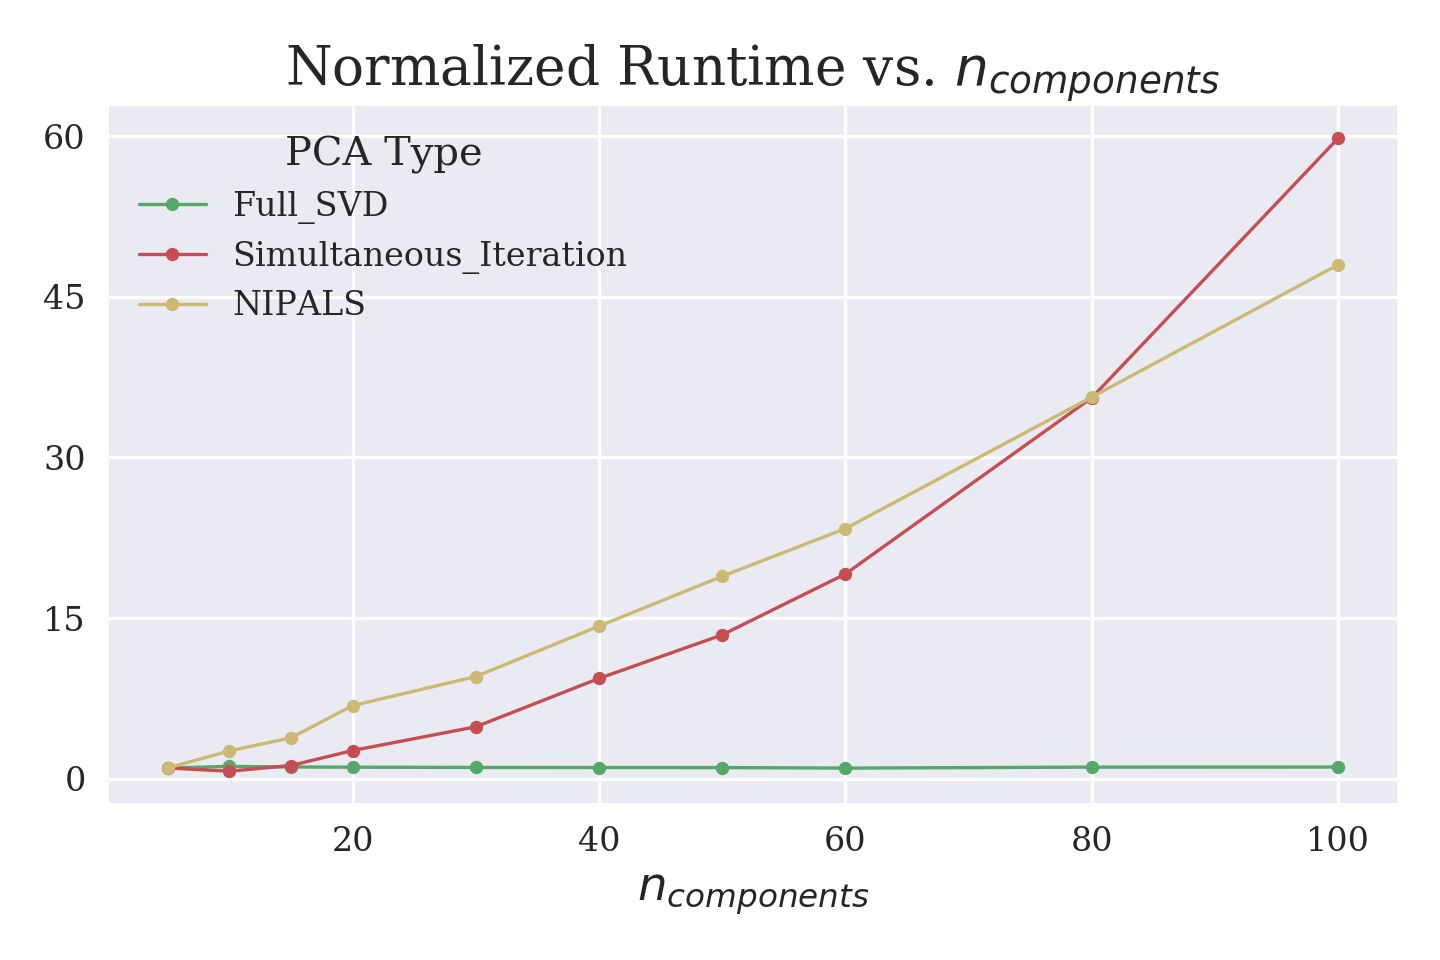
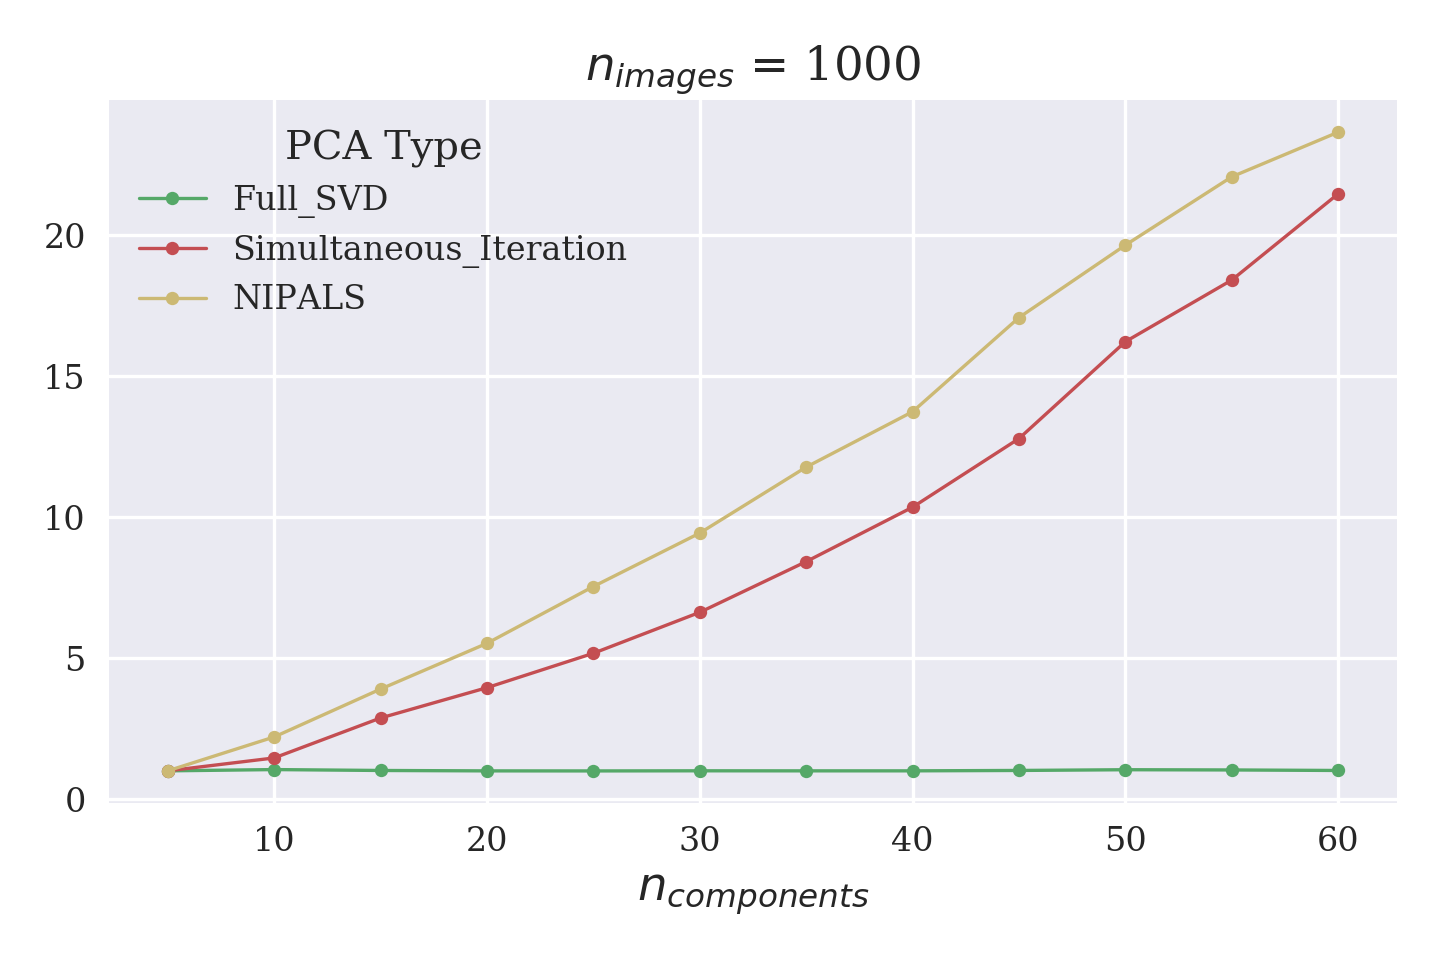
Add newest graphs

diff --git a/Main/Benchmarking/script.py b/Main/Benchmarking/script.py
@@ -5,9 +5,9 @@ import seaborn as sns
 import os
 import matplotlib.ticker as ticker
 
-COMPONENT_VALUES = [5, 10, 15, 20, 30, 40, 50, 60, 80, 100]
-IMAGE_NUMBERS = [100, 200, 400, 600, 800, 1000, 1500, 2000, 2500, 3000, 4000, 5000]
-PIXEL_COUNTS = [20, 40, 60, 80, 100, 150, 200, 250, 300, 400, 500, 600, 800, 1000, 1500, 2000]
+COMPONENT_VALUES = [5, 10, 15, 20, 25, 30, 35, 40, 45, 50, 55, 60]
+IMAGE_NUMBERS = [100, 200, 300, 400, 500, 600, 700, 800, 1000, 1100, 1200]
+PIXEL_COUNTS = [20, 40, 60, 80, 100, 120, 140, 160, 180, 200, 220, 240, 260, 280, 300, 320]
 
 ALGORITHMS = ['Full_SVD', 'Simultaneous_Iteration', 'NIPALS']
 
@@ -19,7 +19,7 @@ N_PC_TRIALS = len(PIXEL_COUNTS)
 NDIR = "Normalized Graphs"
 DIR = "Graphs"
 
-def benchmark_pixels(n_images=5000, n_components=5, EACH=8):
+def benchmark_pixels(dataset, n_images=5000, n_components=5, EACH=25, savename=''):
 
     dtype = "float32"
 
@@ -34,16 +34,19 @@ def benchmark_pixels(n_images=5000, n_components=5, EACH=8):
     benchmark_SI(minimal.copy(), 1, False)
 
     completed = 0
+    n_total = dataset.shape[0]
+    max_pixels = dataset.shape[1]
 
     for k in range(EACH):
-
-        images = np.random.normal(0, 1, (n_images, max(PIXEL_COUNTS)))
-        images = np.array(images, dtype)
 
         for j in range(N_PC_TRIALS):
 
             n_pixels = PIXEL_COUNTS[j]
-            subset = images[:, :n_pixels]
+            perm = np.random.permutation(n_total)
+
+            perm_pixels = np.random.permutation(max_pixels)[:n_pixels]
+
+            subset = dataset[perm][:n_images, perm_pixels]
 
             _, _, _elapsedN = benchmark_NIPALS(subset.copy(), n_components, False)
             _, _, _elapsedSVD = benchmark_SVD(subset.copy(), n_components, False)
@@ -60,9 +63,9 @@ def benchmark_pixels(n_images=5000, n_components=5, EACH=8):
             print(_elapsedN)
 
             print("Completed: ", completed, " of ", n_trials, " trials!")
-        np.save('full_pixels.npy', ret)
+        np.save('full_pixels' + savename + '.npy', ret)
 
-def benchmark_all(dataset, EACH=8):
+def benchmark_all(dataset, EACH=25, savename=''):
 
     ret = np.zeros((N_CV_TRIALS, N_IN_TRIALS, N_ALGORITHMS, EACH), dtype="float64")
     n_trials = ret.size
@@ -102,12 +105,12 @@ def benchmark_all(dataset, EACH=8):
                 ret[i, j, 2, l] = _elapsedN
 
             print("Completed: ", completed, " of ", n_trials, " trials!")
-            np.save('full_run_new.npy', ret)
+            np.save('full' + savename + '.npy', ret)
 
-def graph_vs_components(normalized=False):
+def graph_vs_components(normalized=False, savename=''):
 
-    runtimes = np.load('full_run_new.npy')
-    runtimes = np.mean(runtimes, axis=3)
+    runtimes = np.load('full' + savename + '.npy')
+    runtimes = np.median(runtimes, axis=3)
 
     for j in range(N_IN_TRIALS):
 
@@ -145,6 +148,7 @@ def graph_vs_components(normalized=False):
             ax.set_ylabel(r"$Runtime (seconds)$" , fontsize=14)
             ax.set_title(r"$Runtime$ vs. $n_{components}$", fontsize=16)
      
+        ax.set_title(r"$n_{images}$ = " + str(n_images), fontsize=14)
 
         ax.set_xlabel(r"$n_{components}$", fontsize=14)
 
@@ -160,14 +164,14 @@ def graph_vs_components(normalized=False):
         
         else:
 
-            plt.savefig(os.path.join(DIR, "N_Components_Image" + str(n_images) + ".png"))
+            plt.savefig(os.path.join(DIR, "U_Components_Image" + str(n_images) + ".png"))
                   
         plt.close('all')
 
-def graph_vs_images(normalized=False):
+def graph_vs_images(normalized=False, savename=''):
 
-    runtimes = np.load('full_run_new.npy')
-    runtimes = np.mean(runtimes, axis=3)
+    runtimes = np.load('full' + savename + '.npy')
+    runtimes = np.median(runtimes, axis=3)
 
     for i in range(N_CV_TRIALS):
 
@@ -205,6 +209,7 @@ def graph_vs_images(normalized=False):
             ax.set_ylabel(r"$Runtime (seconds)$" , fontsize=14)
             ax.set_title(r"$Runtime$ vs. $n_{images}$", fontsize=16)
      
+        ax.set_title(r"$n_{components}$ = " + str(n_components), fontsize=14)
 
         ax.set_xlabel(r"$n_{images}$", fontsize=14)
 
@@ -220,16 +225,14 @@ def graph_vs_images(normalized=False):
         
         else:
 
-            plt.savefig(os.path.join(DIR, "N_Image_Components" + str(n_components) + ".png"))
+            plt.savefig(os.path.join(DIR, "U_Image_Components" + str(n_components) + ".png"))
                   
         plt.close('all')
 
-def graph_vs_pixels(normalized=False):
+def graph_vs_pixels(normalized=False, savename=""):
 
-    runtimes = np.load('full_pixels.npy')
+    runtimes = np.load('full_pixels' + savename + '.npy')
     runtimes = np.mean(runtimes, axis=2)
-
-    print(runtimes)
 
     sns.set(context='notebook', style='darkgrid', font="serif")
     colours = sns.color_palette(n_colors=6)
@@ -279,70 +282,28 @@ def graph_vs_pixels(normalized=False):
     
     else:
 
-        plt.savefig(os.path.join(DIR, "N_Pixels.png"))
+        plt.savefig(os.path.join(DIR, "U_Pixels.png"))
 
-              
+    plt.show()              
     plt.close('all')
 
-def graph_vs_pixels_large(normalized=False):
 
-    runtimes = np.load('full_pixels.npy')
-    runtimes = np.mean(runtimes, axis=2)
+def extract_image(imgset, shape, index):
 
-    print(runtimes)
+    image_out = np.reshape(imgset[index, :], (shape, shape))
+    return image_out
 
-    sns.set(context='notebook', style='darkgrid', font="serif")
-    colours = sns.color_palette(n_colors=6)
-    colour_indices = [1, 4]
-    plt.figure(figsize=(6, 4), dpi=240)
 
-    for k in range(N_ALGORITHMS - 1):
+def plot_images(imageset, title, num_images=4):
+    shape = int(np.ceil(np.sqrt(np.shape(imageset)[1])))
+    numrows = int(np.ceil(np.sqrt(num_images)))
+    for i in range(num_images):
+        plt.subplot(numrows, numrows, i+1)
+        plt.imshow(extract_image(imageset,shape,i),cmap='gray')
+        plt.axis('off')
+        plt.title(title)
 
-        values = runtimes[k, :].flatten()
-
-        if normalized:
-
-            values /= values[0]
-
-        plt.plot(PIXEL_COUNTS, 
-                 values, 
-                 color=colours[colour_indices[k]],
-                 linestyle='-',
-                 linewidth=1,
-                 marker='o',
-                 markersize=4)
-
-    ax = plt.gca()
-
-    if normalized:
-
-        ax.set_title(r"Normalized Runtime vs. $n_{pixels}$", fontsize=16)
- 
-    else:
-
-        ax.set_ylabel(r"$Runtime (seconds)$" , fontsize=14)
-        ax.set_title(r"$Runtime$ vs. $n_{pixels}$", fontsize=16)
- 
-
-    ax.set_xlabel(r"$n_{pixels}$", fontsize=14)
-
-    max_yticks = 5
-    yloc = plt.MaxNLocator(max_yticks, prune="both")
-    ax.yaxis.set_major_locator(yloc)
-
-    plt.legend(list(ALGORITHMS[0], ALGORITHMS[2]), title="PCA Type")
-    plt.tight_layout()
-
-    if normalized:
-
-        plt.savefig(os.path.join(NDIR, "N_Pixels_Large.png"))
-    
-    else:
-
-        plt.savefig(os.path.join(DIR, "N_Pixels_Large.png"))
-
-              
-    plt.close('all')
+    plt.show()
 
 
 if __name__ == '__main__':
@@ -356,13 +317,13 @@ if __name__ == '__main__':
     dataset = np.array(dataset, dtype=dtype)
 
     # benchmark_all(dataset)
-    benchmark_pixels()
-    # benchmark_pixels_large()
+    # benchmark_pixels(dataset, savename='2')
 
-    # graph_vs_components(True)
-    # graph_vs_images(True)
-    # graph_vs_components(False)
-    # graph_vs_images(False)
 
-    graph_vs_pixels(True)
-    graph_vs_pixels(False)
+    graph_vs_components(True)
+    graph_vs_images(True)
+    graph_vs_components(False)
+    graph_vs_images(False)
+
+    # graph_vs_pixels(True, '2')
+    # graph_vs_pixels(False, '2')

diff --git a/Main/Benchmarking/_implementations.py b/Main/Benchmarking/_implementations.py
@@ -4,6 +4,9 @@ import time
 import i_numpy as inp
 import i_numba as inb
 
+from sklearn.decomposition import IncrementalPCA as _bI
+from sklearn.decomposition import PCA as _bSVD
+
 def benchmark_NIPALS(data, n_components, use_np=True, threshold=1e-6, max_iter=200):
 
     dtype = data.dtype
@@ -67,7 +70,7 @@ def benchmark_SVD(data, n_components, use_np=True):
 
     return ret, pc, _elapsed
 
-def benchmark_SI(data, n_components, use_np=True, threshold=1e-4, max_iter=200):
+def benchmark_SI(data, n_components, use_np=True, threshold=1e-6, max_iter=200):
 
     dtype = data.dtype
 
@@ -75,6 +78,54 @@ def benchmark_SI(data, n_components, use_np=True, threshold=1e-4, max_iter=200):
     data -= data_means
 
     X = data.T.dot(data) / (data.shape[1] - 1)
+
+    (m, n) = X.shape
+
+    Q = np.random.randn(m, n_components)
+    Q = np.array(Q, dtype=dtype)
+
+    Q_o = Q.copy()
+
+    R = np.zeros((n,n), dtype=dtype)
+    I = np.eye(m, dtype=dtype)
+
+    start_time = time.time()
+
+    if use_np:
+
+        inp._SI(X, Q, Q_o, R, I, threshold, max_iter)
+
+    else: 
+
+        inb._SI(X, Q, Q_o, R, I, threshold, max_iter)
+
+    _elapsed = time.time() - start_time
+
+    scores = np.dot(data, Q)
+    pc = Q.T
+
+    ret = np.dot(scores, pc)    
+    ret += data_means
+
+    return ret, pc, _elapsed
+
+
+# Benchmark the builtin Incremental PCA iteration
+def benchrmark_builtin_I(data, n_components, threshold=1e-6, max_iter=200):
+
+    dtype = data.dtype
+
+    data_means = np.mean(data, axis=0, keepdims=True)
+    data -= data_means
+
+    _alg = _bI(n_components=n_components, whiten=False)
+    _iter = 0
+
+
+    while _alg.var_ > threshold and max_iter > _iter:
+
+        _alg.partial_fit(dat)
+
 
     (m, n) = X.shape
 
@@ -129,25 +180,25 @@ if __name__ == "__main__":
     benchmark_SVD(minimal.copy(), 1, False)
     benchmark_SI(minimal.copy(), 1, False)
 
-    print("Testing NIPALS on Numba...")
-    _, _, _elapsed = benchmark_NIPALS(data.copy(), n_components, False)
-    print("Time Elapsed: ", _elapsed, " seconds")
+    # print("Testing NIPALS on Numba...")
+    # _, _, _elapsed = benchmark_NIPALS(data.copy(), n_components, False)
+    # print("Time Elapsed: ", _elapsed, " seconds")
 
-    print("Testing NIPALS on Numpy...")
-    ret_n, pcnp, _elapsed = benchmark_NIPALS(data.copy(), n_components, True)
-    print("Time Elapsed: ", _elapsed, " seconds")
+    # print("Testing NIPALS on Numpy...")
+    # ret_n, pcnp, _elapsed = benchmark_NIPALS(data.copy(), n_components, True)
+    # print("Time Elapsed: ", _elapsed, " seconds")
 
-    print("Testing SVD on Numba...")
-    _, _, _elapsed = benchmark_SVD(data.copy(), n_components, False)
-    print("Time Elapsed: ", _elapsed, " seconds")
+    # print("Testing SVD on Numba...")
+    # _, _, _elapsed = benchmark_SVD(data.copy(), n_components, False)
+    # print("Time Elapsed: ", _elapsed, " seconds")
 
-    print("Testing SVD on Numpy...")
-    ret_svd, pcsvd, _elapsed = benchmark_SVD(data.copy(), n_components, True)
-    print("Time Elapsed: ", _elapsed, " seconds")
+    # print("Testing SVD on Numpy...")
+    # ret_svd, pcsvd, _elapsed = benchmark_SVD(data.copy(), n_components, True)
+    # print("Time Elapsed: ", _elapsed, " seconds")
 
-    print("Testing SI on Numba...")
-    ret_si, pcsi, _elapsed = benchmark_SI(data.copy(), n_components, False)
-    print("Time Elapsed: ", _elapsed, " seconds")
+    # print("Testing SI on Numba...")
+    # _, _, _elapsed = benchmark_SI(data.copy(), n_components, False)
+    # print("Time Elapsed: ", _elapsed, " seconds")
 
     print("Testing SI on Numpy...")
     ret_si, pcsi, _elapsed = benchmark_SI(data.copy(), n_components, True)

diff --git a/Main/Benchmarking/i_numpy.py b/Main/Benchmarking/i_numpy.py
@@ -49,6 +49,8 @@ def _SVD(X, scores, loadings, lambdas, n_components):
 
 def _SI(X, Q, Q_o, R, I, threshold=1e-6, max_iter=200): 
 
+    z = 0
+
     for k in range(max_iter):
 
         A = operator.matmul(X, Q)
@@ -60,7 +62,11 @@ def _SI(X, Q, Q_o, R, I, threshold=1e-6, max_iter=200):
         delta = operator.matmul(I - np.dot(Q, Q.T), Q_o)
         
         if np.linalg.norm(delta) <= threshold:
+
             break
+
+        z = k
+    print(k)
 
 def _MGS(A, Q, R):
 
